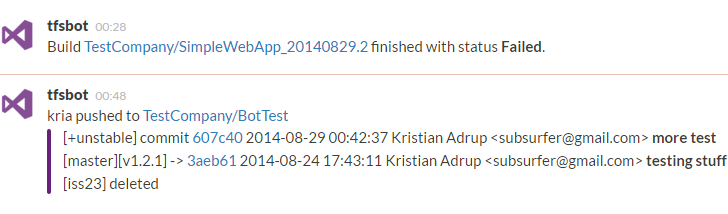
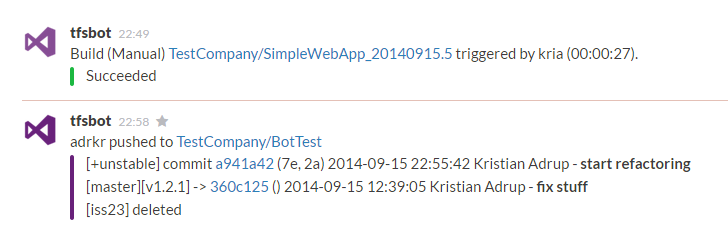
More informative and prettier build notification.
- Slack attachment with color to indicate success or failure.
- Show reason for build.
- Show who triggered the build.
- Show how long the build took.

Changed region(s): [[0.0, 0.3925, 1.0, 0.8972], [0.0, 0.0841, 0.8764, 0.2523], [0.0, 0.2804, 1.0, 0.3645]]

diff --git a/Tfs2Slack/Notifications/BuildCompletionNotification.cs b/Tfs2Slack/Notifications/BuildCompletionNotification.cs
@@ -24,24 +24,44 @@ namespace DevCore.Tfs2Slack.Notifications
     class BuildCompletionNotification : BaseNotification
     {
         protected static Configuration.TextElement text = Configuration.Tfs2SlackSection.Instance.Text;
+        protected static Configuration.SettingsElement settings = Configuration.Tfs2SlackSection.Instance.Settings;
 
         public string ProjectName { get; set; }
         public string BuildDefinition { get; set; }
-        public BuildStatus BuildStatuses { get; set; }
+        public BuildStatus BuildStatus { get; set; }
         public string BuildUrl { get; set; }
         public string BuildNumber { get; set; }
+        public BuildReason BuildReason { get; set; }
+        public string RequestedFor { get; set; }
+        public string RequestedForDisplayName { get; set; }
+        public DateTime StartTime { get; set; }
+        public DateTime FinishTime { get; set; }
+        public string TriggeredBy 
+        {
+            get { return settings.StripUserDomain ? Utils.StripDomain(RequestedFor) : RequestedFor; }
+        }
+        public string BuildDuration
+        {
+            get
+            {
+                var duration = FinishTime - StartTime;
+                return String.IsNullOrEmpty(text.TimeSpanFormat) ? duration.ToString(@"hh\:mm\:ss") : duration.ToString(text.TimeSpanFormat);
+            }
+        }
 
         public override IList<string> ToMessage(Configuration.BotElement bot)
         {
-            return new[] { text.BuildFormat.FormatWith(this) };
+            Color = BuildStatus.HasFlag(BuildStatus.Succeeded) ? bot.SuccessColor : bot.ErrorColor;
+            var sb = new StringBuilder();
+            return new[] { text.BuildFormat.FormatWith(this), BuildStatus.ToString() };
         }
 
         public override bool IsMatch(string collection, Configuration.EventRuleCollection eventRules)
         {
             foreach (var rule in eventRules)
             {
-                if (BuildStatuses.HasFlag(BuildStatus.Succeeded) && rule.Events.HasFlag(TfsEvents.BuildSucceeded)
-                    || BuildStatuses.HasFlag(BuildStatus.Failed) && rule.Events.HasFlag(TfsEvents.BuildFailed))
+                if (BuildStatus.HasFlag(BuildStatus.Succeeded) && rule.Events.HasFlag(TfsEvents.BuildSucceeded)
+                    || BuildStatus.HasFlag(BuildStatus.Failed) && rule.Events.HasFlag(TfsEvents.BuildFailed))
                 {
                     if (collection.IsMatchOrNoPattern(rule.Collection)
                         && ProjectName.IsMatchOrNoPattern(rule.TeamProject) 

diff --git a/Tfs2Slack/EventHandlers/BuildCompletionHandler.cs b/Tfs2Slack/EventHandlers/BuildCompletionHandler.cs
@@ -21,6 +21,7 @@ using System.Text;
 using System.Threading.Tasks;
 using System.Text.RegularExpressions;
 using DevCore.Tfs2Slack.Notifications;
+using Newtonsoft.Json.Linq;
 
 namespace DevCore.Tfs2Slack.EventHandlers
 {
@@ -34,24 +35,37 @@ namespace DevCore.Tfs2Slack.EventHandlers
         protected override INotification CreateNotification(TeamFoundationRequestContext requestContext, object notificationEventArgs, int maxLines)
         {
             var buildNotification = (BuildCompletionNotificationEvent)notificationEventArgs;
-            var build = buildNotification.Build;
-
+            BuildDetail build = buildNotification.Build;
             var locationService = requestContext.GetService<TeamFoundationLocationService>();
+            var buildService = requestContext.GetService<TeamFoundationBuildService>();
 
-            string buildUrl = String.Format("{0}/{1}/{2}/_build#buildUri={3}&_a=summary",
+            using (var buildReader = buildService.QueryQueuedBuildsById(requestContext, build.QueueIds, new[] { "*"}, QueryOptions.None))
+            {
+                var result = buildReader.Current<BuildQueueQueryResult>();
+                QueuedBuild qb = result.QueuedBuilds.FirstOrDefault();
+
+                string buildUrl = String.Format("{0}/{1}/{2}/_build#buildUri={3}&_a=summary",
                 locationService.GetAccessMapping(requestContext, "PublicAccessMapping").AccessPoint,
                 requestContext.ServiceHost.Name,
                 build.TeamProject,
                 build.Uri);
-            var notification = new BuildCompletionNotification()
-            {
-                BuildUrl = buildUrl,
-                ProjectName = build.TeamProject,
-                BuildNumber = build.BuildNumber,
-                BuildStatuses = build.Status
-            };
+                var notification = new BuildCompletionNotification()
+                {
+                    BuildUrl = buildUrl,
+                    ProjectName = build.TeamProject,
+                    BuildNumber = build.BuildNumber,
+                    BuildStatus = build.Status,
+                    BuildReason = build.Reason,
+                    StartTime =  build.StartTime,
+                    FinishTime = build.FinishTime,
+                    RequestedFor = qb.RequestedFor,
+                    RequestedForDisplayName = qb.RequestedForDisplayName
+                };
 
-            return notification;
+                return notification;
+            }
+
+            
         }
     }
 }

diff --git a/Tfs2Slack/EventHandlers/BaseHandler.cs b/Tfs2Slack/EventHandlers/BaseHandler.cs
@@ -74,11 +74,12 @@ namespace DevCore.Tfs2Slack.EventHandlers
                             }
                         }
 
+                        string color = notification.Color ?? bot.SlackColor;
                         if (lines != null && lines.Count > 0)
                         {
                             var channels = bot.SlackChannels.Split(',')
                                 .Select(chan => new Slack.PayloadSettings(bot.SlackWebhookUrl, chan.Trim(), bot.SlackUsername,
-                                    bot.SlackIconEmoji, bot.SlackIconUrl, bot.SlackColor));
+                                    bot.SlackIconEmoji, bot.SlackIconUrl, color));
 
                             foreach (var chan in channels)
                             {

diff --git a/Tfs2Slack/Configuration/BotElement.cs b/Tfs2Slack/Configuration/BotElement.cs
@@ -64,6 +64,18 @@ namespace DevCore.Tfs2Slack.Configuration
             get { return (string)this["slackColor"]; }
         }
 
+        [ConfigurationProperty("successColor")]
+        public string SuccessColor
+        {
+            get { return (string)this["successColor"]; }
+        }
+
+        [ConfigurationProperty("errorColor")]
+        public string ErrorColor
+        {
+            get { return (string)this["errorColor"]; }
+        }
+
         [ConfigurationProperty("eventRules", IsDefaultCollection = false)]
         [ConfigurationCollection(typeof(EventRuleCollection),
             AddItemName = "rule")]

diff --git a/Tfs2Slack/Configuration/TextElement.cs b/Tfs2Slack/Configuration/TextElement.cs
@@ -76,6 +76,12 @@ namespace DevCore.Tfs2Slack.Configuration
             get { return (string)this["dateTimeFormat"]; }
         }
 
+        [ConfigurationProperty("timeSpanFormat")]
+        public string TimeSpanFormat
+        {
+            get { return (string)this["timeSpanFormat"]; }
+        }
+
         [ConfigurationProperty("buildFormat")]
         public string BuildFormat
         {

diff --git a/Tfs2Slack/Properties/AssemblyInfo.cs b/Tfs2Slack/Properties/AssemblyInfo.cs
@@ -32,5 +32,5 @@ using System.Runtime.InteropServices;
 // You can specify all the values or you can default the Build and Revision Numbers 
 // by using the '*' as shown below:
 // [assembly: AssemblyVersion("1.0.*")]
-[assembly: AssemblyVersion("1.4.0.0")]
-[assembly: AssemblyFileVersion("1.4.0.0")]
+[assembly: AssemblyVersion("1.5.0.0")]
+[assembly: AssemblyFileVersion("1.5.0.0")]

diff --git a/Tfs2Slack/Notifications/BaseNotification.cs b/Tfs2Slack/Notifications/BaseNotification.cs
@@ -23,6 +23,8 @@ namespace DevCore.Tfs2Slack.Notifications
     {
         public int TotalLineCount { get; set; }
 
+        public string Color { get; set; }
+
         public abstract IList<string> ToMessage(Configuration.BotElement bot);
 
         public abstract bool IsMatch(string collection, Configuration.EventRuleCollection eventRules);

diff --git a/Tfs2Slack/Notifications/MultiRowNotification.cs b/Tfs2Slack/Notifications/MultiRowNotification.cs
@@ -23,6 +23,8 @@ namespace DevCore.Tfs2Slack.Notifications
     {
         public int TotalLineCount { get; set; }
 
+        public string Color { get; set; }
+
         public IList<string> ToMessage(Configuration.BotElement bot)
         {
             return this.Select(r => r.ToString(bot)).ToList();

diff --git a/Tfs2Slack/Notifications/INotification.cs b/Tfs2Slack/Notifications/INotification.cs
@@ -23,6 +23,8 @@ namespace DevCore.Tfs2Slack.Notifications
     {
         int TotalLineCount { get; set; }
 
+        string Color { get; set; }
+
         IList<string> ToMessage(Configuration.BotElement bot);
 
         bool IsMatch(string collection, Configuration.EventRuleCollection eventRules);

diff --git a/README.md b/README.md
@@ -1,12 +1,12 @@
 # Tfs2Slack
 
-Tfs2Slack is a plugin for Team Foundation Server 2013 that sends notifications to Slack.
+Tfs2Slack is a plugin for Team Foundation Server 2013 that sends notifications to Slack.com.
 
 ## Features and TODO
 
 - [x] Notify multiple Slack organizations and channels
 - [x] Rule-based event filtering
-- [x] Project/repository regex filtering
+- [x] Collection/project/repository regex filtering
 - [x] Configurable notification format
 - [x] Notification links to event in TFS web
 
@@ -32,10 +32,10 @@ Tfs2Slack is a plugin for Team Foundation Server 2013 that sends notifications t
 
 ## Installation
 
-If you don't already have one, add an Incoming WebHooks integration under Configure Integrations in Slack.
-Download the latest [release][0] or clone and build the source yourself.
-Open `DevCore.Tfs2Slack.dll.config` and set at least your full unique Webhook URL in `slackWebhookUrl`. There are [more settings and formats][1] in there that should be somewhat self-explanatory.
-Install the Tfs2Slack plugin by dropping `DevCore.Tfs2Slack.dll`, `DevCore.Tfs2Slack.dll.config` and `Newtonsoft.Json.dll` in *C:\Program Files\Microsoft Team Foundation Server 12.0\Application Tier\Web Services\bin\Plugins* on the server.
+1. If you don't already have one, add an Incoming WebHooks integration under Configure Integrations in Slack.
+2. Download the latest [release][0] or clone and build the source yourself.
+3. Open `DevCore.Tfs2Slack.dll.config` and set at least your full unique Webhook URL in `slackWebhookUrl`. There are [more settings and formats][1] in there that should be somewhat self-explanatory.
+4. Install the Tfs2Slack plugin by dropping `DevCore.Tfs2Slack.dll`, `DevCore.Tfs2Slack.dll.config` and `Newtonsoft.Json.dll` in *C:\Program Files\Microsoft Team Foundation Server 12.0\Application Tier\Web Services\bin\Plugins* on the server.
 
 [0]: https://github.com/kria/Tfs2Slack/releases
 [1]: https://github.com/kria/Tfs2Slack/blob/master/Tfs2Slack/app.config
